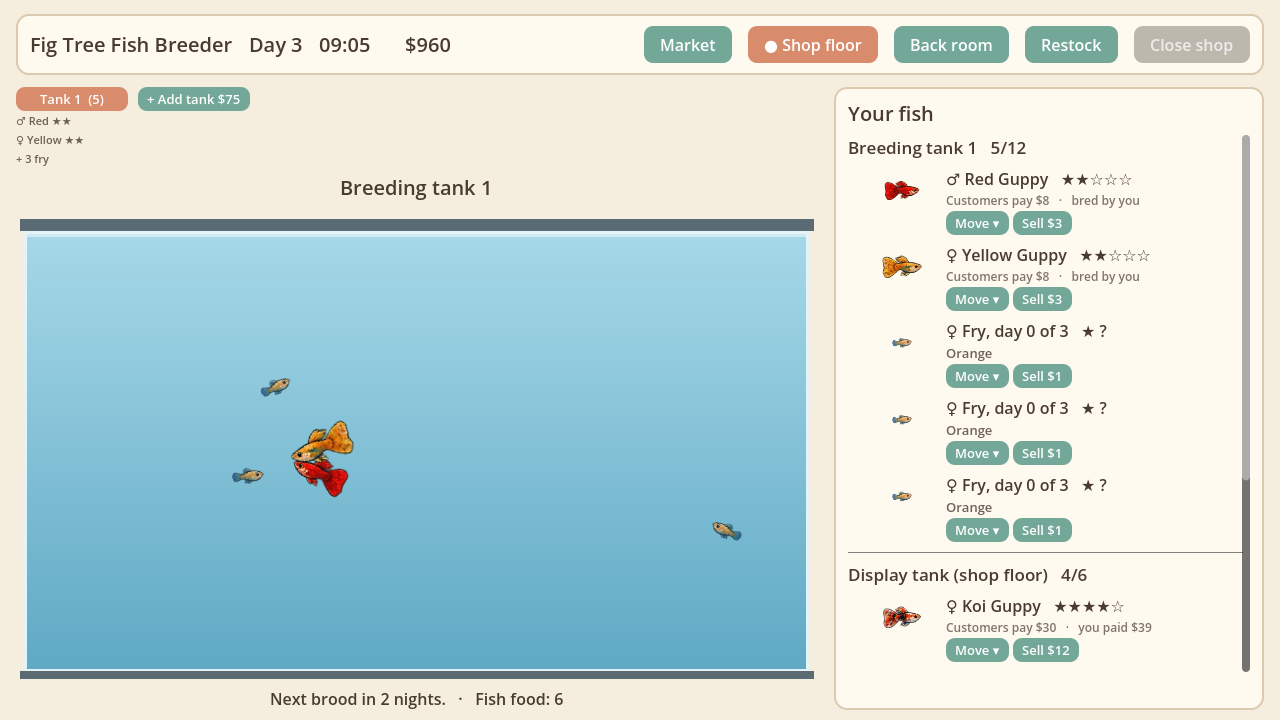
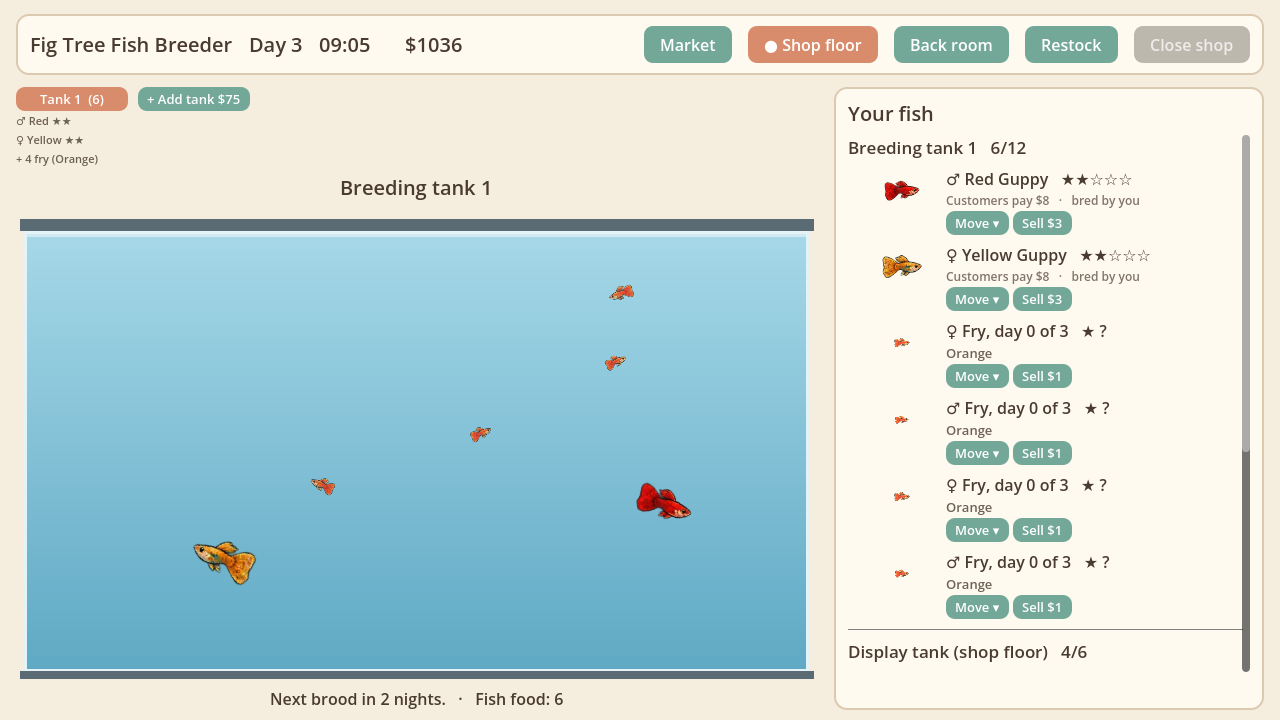
Market resells at a profit; fry look like their variety (v0.6.0)
- fish_market.price_multiplier 1.3 -> 0.7: Market fish cost 70% of what
  customers pay, so reselling bought fish makes a profit and bred fish are
  worth the same as Market ones
- Fry are drawn as a small copy of their own variety (40% -> 100% size by
  age) instead of the sheet's generic baby sprite, which made every tank
  look like it had the same mutated fry
- Breeding tank tabs list fry varieties
- Verified by simulation: fry only come from their own tank's pair and
  mutations stay at 3%
- Tests, CHANGELOG, README, design log and screenshots updated

diff --git a/README.md b/README.md
@@ -9,7 +9,7 @@ who wander in. No fish ever die, nothing punishes you, and there's no rush.
 
 **Play it in your browser:** <https://figtreegames.itch.io/fish-breeder-job-simulator>
 
-Current version: **0.5.1** (see the [changelog](CHANGELOG.md)).
+Current version: **0.6.0** (see the [changelog](CHANGELOG.md)).
 
 | Shop floor | Back room |
 |---|---|
@@ -39,7 +39,7 @@ Current version: **0.5.1** (see the [changelog](CHANGELOG.md)).
   tank, so you can keep lines apart. Each tank's tab lists the fish inside.
 - **Move ▾** on any fish sends it to the display tank, a breeding tank or holding.
 - **The Market** has three tabs: **Fish** (named guppy strains in four price
-  tiers), **Decorations** (plants, rocks, driftwood, decor) and **Supplies**
+  tiers, sold at 70% of what customers pay, so reselling always makes a profit), **Decorations** (plants, rocks, driftwood, decor) and **Supplies**
   (tanks, fish food, substrate).
 - **The tank editor** lets you place substrate and six items (back, middle,
   front). A live looks score and tips show how to make it prettier, and
@@ -86,7 +86,7 @@ See [tests/README.md](tests/README.md) for details.
 with [butler](https://itch.io/docs/butler/):
 
 ```powershell
-.\tools\publish_web.ps1 0.5.1
+.\tools\publish_web.ps1 0.6.0
 ```
 
 ## Project layout

diff --git a/CHANGELOG.md b/CHANGELOG.md
@@ -2,6 +2,28 @@
 
 All notable changes to Fish Breeder Job Simulator. Newest first.
 
+## [0.6.0] - 2026-10-28
+
+### Changed
+- **Market fish are now cheaper than customers pay**, so reselling a bought
+  fish always makes a profit. The Market charges 70% of the customer price
+  (it used to charge 130%). For example, a 3★ Black costs $7 and sells for $10,
+  and a 5★ Neon costs $38 and sells for $54. Fish you breed sell for the same
+  price as the same fish from the Market, and cost you nothing.
+- **Fry now look like their own variety**: a small copy of the adult that
+  grows to full size over 3 days, instead of one generic silver baby sprite.
+  You can see at a glance what each tank's parents produced, and a real Albino
+  or Glass mutation stands out.
+- Each breeding tank's tab now lists its fry varieties too, e.g.
+  "+ 6 fry (Red, Orange)".
+
+### Notes
+- Checked: each tank's fry come only from that tank's own pair, and mutations
+  stay at 3% (3,617 simulated fry). The "same mutated fry in every tank" look
+  came from the shared baby sprite, which is now gone.
+- Because Market fish now resell at a profit, the **Breed one** option (offered
+  only when a sale would be below cost) will rarely appear.
+
 ## [0.5.1] - 2026-10-28
 
 ### Changed

diff --git a/docs/DESIGN.md b/docs/DESIGN.md
@@ -375,6 +375,14 @@ reputation. The design keeps room for all of these.
   `due_day` 2–3 days ahead (`backorders.breed_wait_days`) and `keep_id`. It can
   be handed over from the due day with any matching adult in holding, display
   or a breeding tank, except the kept fish and each tank's breeding pair.
+- **2026-10-28 (v0.6.0):**
+  - **Pricing:** `fish_market.price_multiplier` changed from 1.3 to 0.7. The
+    Market sells at 70% of the customer price, so bought fish resell at a
+    profit and bred fish are worth the same as Market ones (but are free).
+    This replaces the earlier rule that "profit comes from breeding, not
+    reselling". The breed-to-order offer still triggers only below cost.
+  - **Fry art:** fry use their own variety's sprite at 40%→100% size by age;
+    the sheet's generic baby frames are no longer used.
 - **2026-10-28 (v0.5.0), Closed for restock (playtesting):** `GameState.restocking`
   stops new customers (anyone waiting leaves, no penalty) and `time_scale()`
   returns `clock.restock_speed` (4), which the Game autoload multiplies into
